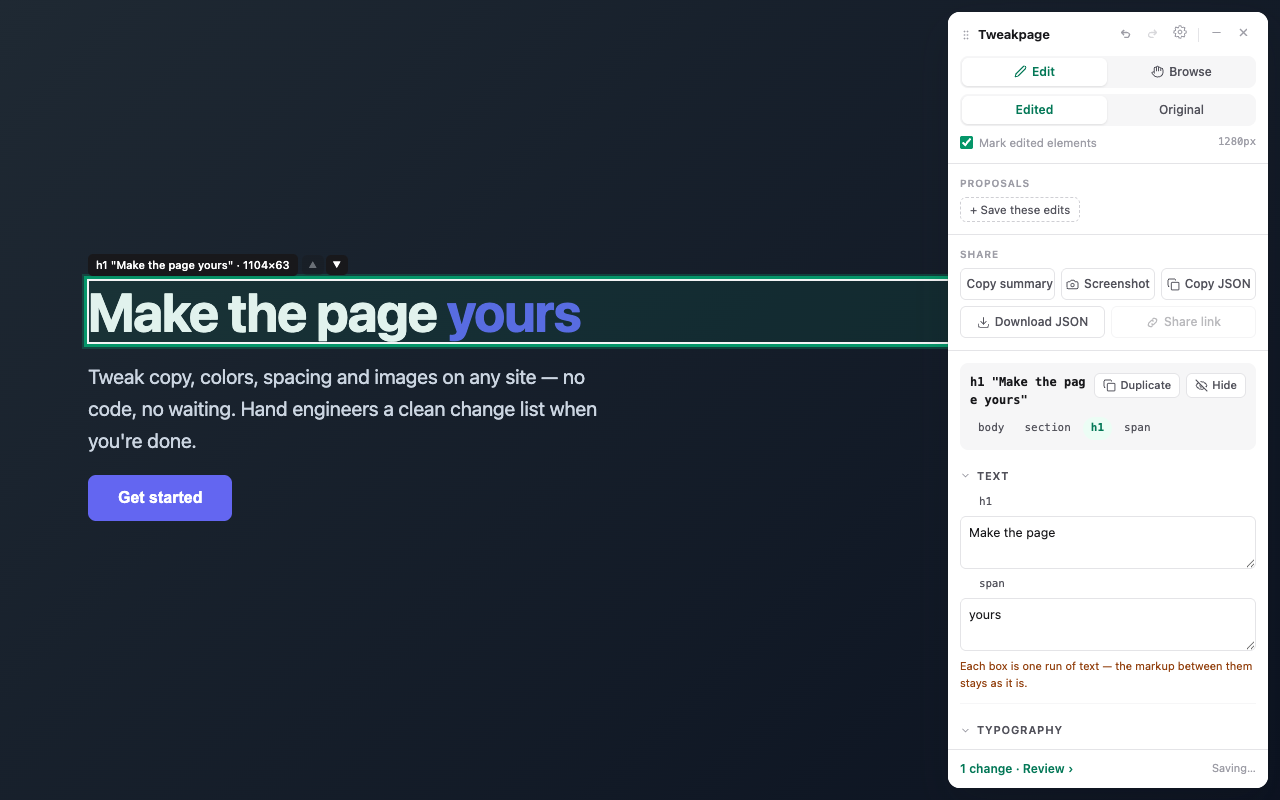
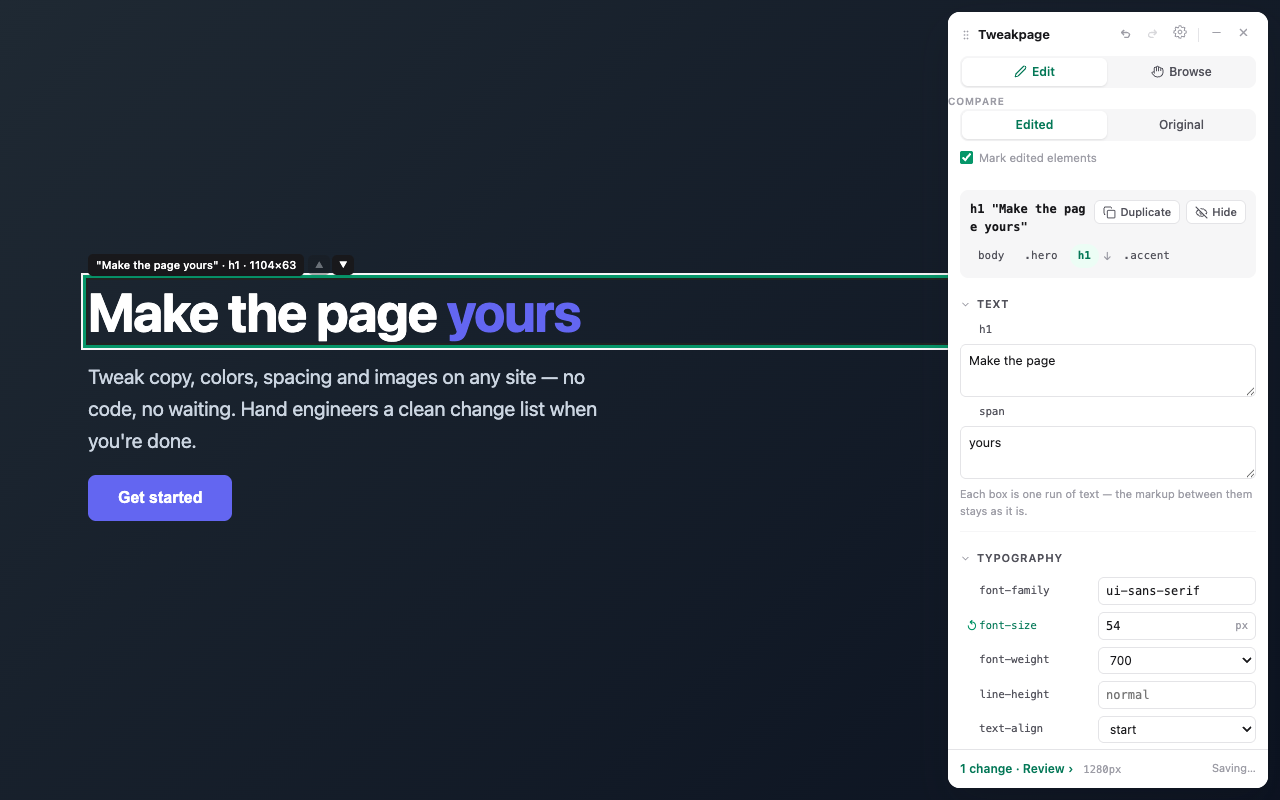
Make the submission describe what actually ships
The store screenshots were generated before three days of changes to the panel:
the hand-off moved below the work, the Compare switch became conditional, the
selection indicator was rebuilt, the settings page was rewritten. The listing's
own rule is that every screenshot must be the shipping UI, and none of them was.
Regenerated from the live extension, which is what `pnpm shots` is for.

The manifest described the product in a sentence nobody had reconciled with the
listing's short description. They are the same sentence now.

Three features shipped in the last few days and never reached the listing copy —
proposals, areas to leave alone, and start over — so it undersold the product in
both languages.

PRIVACY.md's deletion section knew about clearing one page and reverting, but
not about Start over, which is the thorough route and the one that can also take
the credentials.

Version 1.0.0. It has been 0.1.0 through a security review, a failure-path
review, a correctness review and a coverage review; the number should say that
this is the thing being submitted.

diff --git a/wxt.config.ts b/wxt.config.ts
@@ -6,7 +6,8 @@ export default defineConfig({
     name: 'Tweakpage',
     default_locale: 'en',
     icons: { 16: 'icon/16.png', 32: 'icon/32.png', 48: 'icon/48.png', 128: 'icon/128.png' },
-    description: 'Visually edit any page and export the changes.',
+    description:
+      'Visually edit any web page, compare before and after, and hand engineers a clear list of what to change.',
     permissions: ['storage', 'downloads'],
     host_permissions: ['<all_urls>'],
     action: {

diff --git a/docs/store-listing.md b/docs/store-listing.md
@@ -83,7 +83,10 @@ you control.
 > switch.
 >
 > Your edits stay. They are saved on your own machine, per page, and replay when you come
-> back — so you can live with a change for a day before deciding.
+> back — so you can live with a change for a day before deciding. Save two versions as
+> proposals and switch between them. Tell it which parts of a page to leave alone — a
+> chat launcher, a consent banner — so they stop absorbing clicks meant for the page.
+> And put everything back the way it came whenever you want.
 >
 > When you're ready, hand it off. Copy a change list an engineer can act on: element,
 > property, old value, new value, and your note explaining why. Or take one image with
@@ -109,7 +112,8 @@ you control.
 > 和原始版之間來回對照。
 >
 > 改動會留著。它們存在你自己的電腦上、依頁面分開,下次回來會自動重現 —— 所以你可以先
-> 跟一個改動相處一天,再決定要不要。
+> 跟一個改動相處一天,再決定要不要。可以存成兩個提案來回對照;可以指定頁面上哪些區域
+> 不要選取 —— 客服按鈕、同意條 —— 讓它們不再吃掉你要點的東西;也隨時可以一鍵回復原廠。
 >
 > 準備好就交出去:複製一份工程師能直接動手的改動清單(元素、屬性、舊值、新值,還有你
 > 寫的理由),或存成一張前後對照圖,或者你有自己的 S3 bucket 的話,送一條連結 ——
@@ -124,7 +128,7 @@ Sizes the dashboard requires. Every screenshot must be the shipping UI.
 
 - [x] Store icon 128×128 (`public/icon/128.png`), artwork inset to 96×96 as the grid
       expects. `pnpm icons` redraws it and the three toolbar sizes from one source.
-- [ ] Screenshots 1280×800 (or 640×400), 1–5 of them. Suggested: select and edit; before
+- [x] Screenshots 1280×800 (or 640×400), 1–5 of them. Suggested: select and edit; before
       and after; the change list with a note; duplicate and reorder; the share link
       preview as the recipient sees it.
 - [x] Small promo tile 440×280 (`docs/assets/store/promo-440x280.png`), also from
@@ -144,4 +148,4 @@ itself lives in `scripts/icon.mjs`, with `docs/assets/icon.svg` as its vector ou
 - [ ] Load the unpacked ZIP by hand and run `docs/qa-checklist.md`
 - [ ] The package contains no tests, no source maps, no `.env`, no real credentials
 - [ ] The privacy policy URL resolves and matches the declared practices
-- [ ] Version bumped
+- [x] Version bumped — 1.0.0

diff --git a/PRIVACY.md b/PRIVACY.md
@@ -92,6 +92,9 @@ associated with this project.
 
 - **One page's edits**: click the toolbar icon and press Clear beside that page, or
   Revert all in the editor.
+- **Everything at once, without uninstalling**: Settings → Start over, in the editor. It
+  lists what it will take — your preferences, every page of changes, your AWS and TinyPNG
+  keys — and takes only what you tick.
 - **Everything stored locally**: remove the extension. Chrome deletes its storage,
   including the credentials.
 - **Objects already uploaded**: they are in your bucket and only you can delete them.
